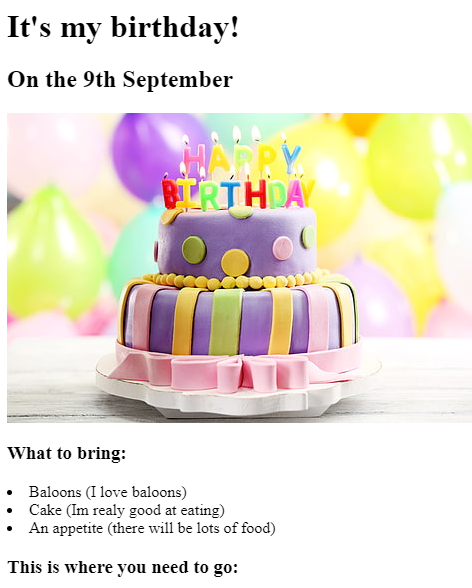
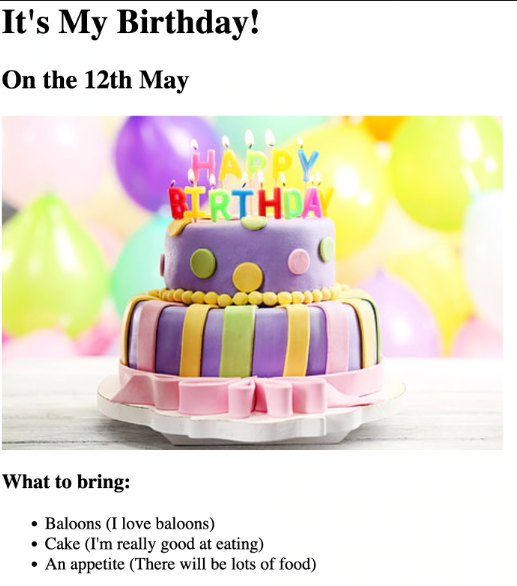
Add files via upload

diff --git a/public/amir bd proj.html b/public/amir bd proj.html
@@ -5,7 +5,7 @@
 
 
 <h1>It's my birthday!</h1>
-<h2>On the 9th September</h2>
+<h2>On the 12th September</h2>
 <img src="https://raw.githubusercontent.com/appbrewery/webdev/main/birthday-cake3.4.jpeg" height="190" alt="birthday cake" />
 <h3>What to bring:</h3>
 <uo>
